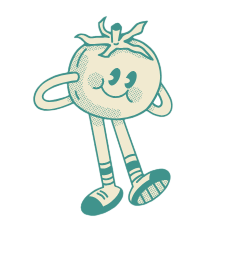
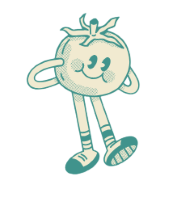
i believe this fits all screens now will check production

diff --git a/app/page.tsx b/app/page.tsx
@@ -120,7 +120,7 @@ const Page = () => {
           <img
             src="/images/tomato.png"
             alt="AI Chatbot"
-            className="w-auto h-auto max-w-none mb-2 ml-[-50]"
+            className="w-auto h-auto max-w-none mb-2 ml-[-60]"
             style={{ width: '200px' }}
           />
         </div>
@@ -133,7 +133,7 @@ const Page = () => {
             questions, answered instantly and effortlessly!
           </p>
           <button
-            className="mt-4 bg-teal text-white px-4 py-2 rounded-full border-2 border-forest_green w-40 shadow-md"
+            className="mt-4 bg-teal text-white px-4 py-2 rounded-full border-2 border-forest_green w-40 shadow-md ml-[-60]"
             onClick={() => router.push("/aichatbot")}
           >
             Try Now
